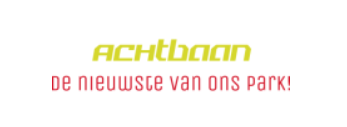
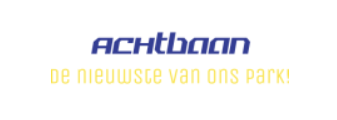
Fix

Changed region(s): [[0.1484, 0.575, 0.8605, 0.725], [0.2671, 0.25, 0.7418, 0.5]]

diff --git a/header.php b/header.php
@@ -1,6 +1,6 @@
 <header>
 	<div class="wrapper">
-		<a href="index.php"><img src="img/curio.png" alt="logo" class="logo"></a>
+		<a href="index.php"><img src="img/Achtbaan.png" alt="logo" class="logo"></a>
 			<nav>
 			<a href="index.php">Home</a>
 			<a href="hobbies.php">Hobbies</a>
